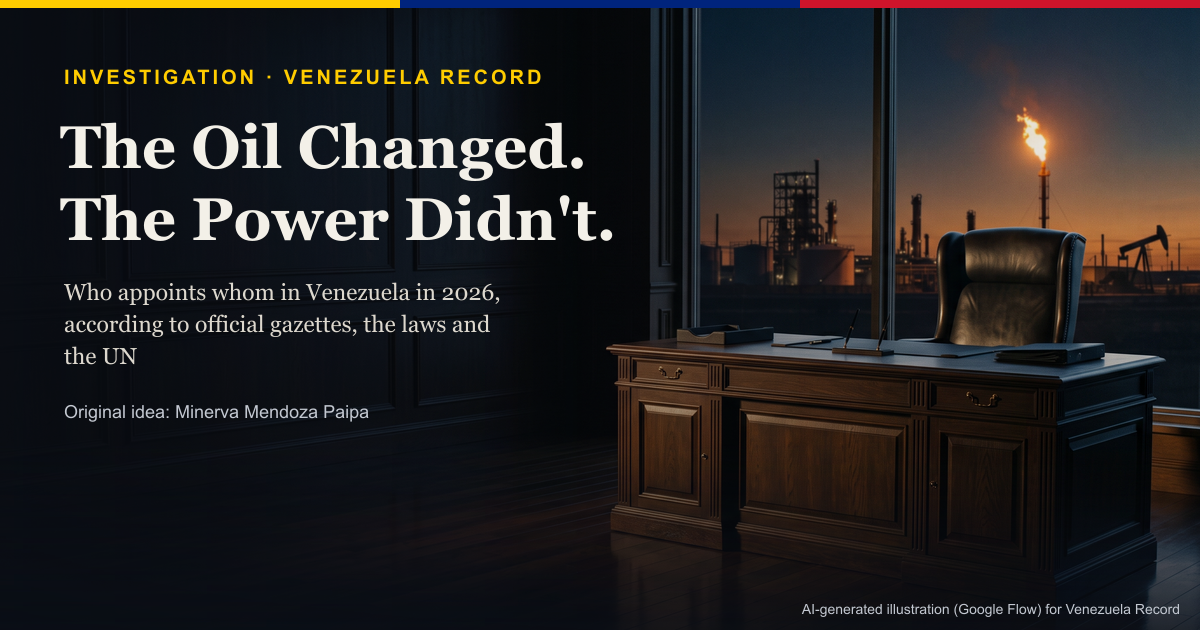
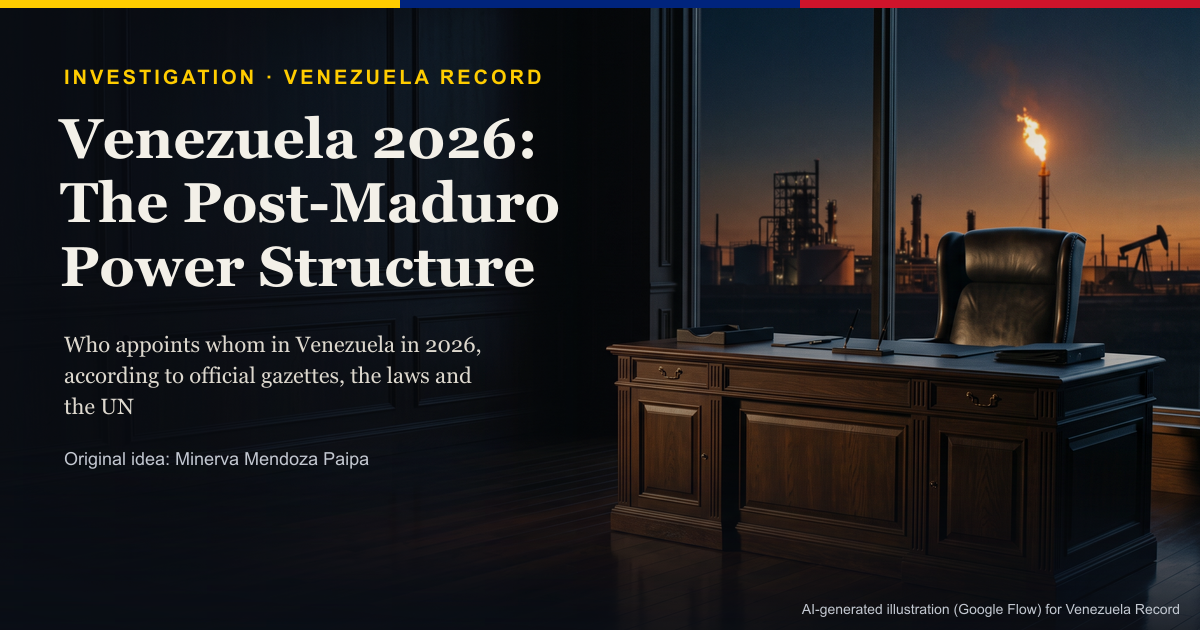
Investigation 1: new title and standfirst proposed by Minerva Mendoza Paipa ("Venezuela 2026: La estructura del poder post-Maduro"); social images regenerated

Changed region(s): [[0.0308, 0.181, 0.5242, 0.6635], [0.0617, 0.7238, 0.3083, 0.754]]

diff --git a/src/data/investigations/who-commands-venezuela-2026.ts b/src/data/investigations/who-commands-venezuela-2026.ts
@@ -1,4 +1,4 @@
-// "The Oil Changed. The Power Didn't." — data and texts shared by /investigations/who-commands-venezuela-2026/
+// "Venezuela 2026: The Post-Maduro Power Structure" (until 22 Oct 2026: "The Oil Changed. The Power Didn't.") — data and texts shared by /investigations/who-commands-venezuela-2026/
 // (English) and /es/investigations/who-commands-venezuela-2026/ (Spanish).
 // Facts are attributed; every org-chart line and timeline entry cites a numbered source (SOURCES below).
 // Author: Venezuela Record. Original idea: Minerva Mendoza Paipa.
@@ -34,7 +34,8 @@ import hero from '../../assets/investigations/who-commands-venezuela-2026/hero.j
 
 export const META: InvestigationMeta = {
   slug: 'who-commands-venezuela-2026',
-  title: { en: "The Oil Changed. The Power Didn't.", es: 'Cambió el petróleo, no el poder' },
+  // Title proposed by Minerva Mendoza Paipa, approved by Roger on 2026-10-22 (was "Cambió el petróleo, no el poder").
+  title: { en: 'Venezuela 2026: The Post-Maduro Power Structure', es: 'Venezuela 2026: La estructura del poder post-Maduro' },
   subtitle: {
     en: 'Who appoints whom in Venezuela in 2026, according to official gazettes, the laws and the UN',
     es: 'Quién designa a quién en la Venezuela de 2026, según las gacetas oficiales, las leyes y la ONU',
@@ -42,6 +43,11 @@ export const META: InvestigationMeta = {
   summary: {
     en: 'Since January, Venezuela opened its oil, welcomed back the IMF and signed an oil deal with the United States. The people who signed the laws used against dissent still appoint the heads of intelligence and counterintelligence. The gazettes show it.',
     es: 'Desde enero, Venezuela abrió su petróleo, recibió de nuevo al FMI y firmó un acuerdo petrolero con EE. UU. Las mismas personas que firmaron las leyes usadas contra quien disiente siguen nombrando a los jefes de la inteligencia y la contrainteligencia. Las gacetas lo muestran.',
+  },
+  /** Standfirst under the cover (Minerva Mendoza Paipa, 2026-10-22). */
+  intro: {
+    en: 'The reorganization of power in Venezuela during 2026 raises a question that goes beyond the change of authorities: which security and intelligence structures remain, who holds their command powers and which mechanisms of control and political persecution are still operating. What really changed in Venezuela? The official gazettes and the reports of international bodies show the institutional reality as of October 2026.',
+    es: 'La reorganización del poder en Venezuela durante 2026 plantea una cuestión que trasciende el cambio de autoridades: qué estructuras de seguridad e inteligencia permanecen, quién ejerce sus facultades de mando y qué mecanismos de control y persecución política continúan operando. ¿Qué fue lo que realmente cambió en Venezuela? Las gacetas oficiales y los informes de organismos internacionales permiten mostrar la realidad institucional a octubre de 2026.',
   },
   published: '2026-10-16',
   updated: '2026-10-22',

diff --git a/src/data/investigations/types.ts b/src/data/investigations/types.ts
@@ -25,6 +25,8 @@ export interface InvestigationMeta {
   updated: string;
   /** Who proposed the idea (credited, never as author) */
   ideaBy: string;
+  /** Optional standfirst shown right under the cover. */
+  intro?: L;
   cover?: ImageMetadata;
   /** Credit for a cover that uses third-party material (license requires it next to the image). */
   coverCredit?: { text: L; url?: string };

diff --git a/CLAUDE.md b/CLAUDE.md
@@ -32,8 +32,9 @@ Repo: `github.com/venezurecord/venezuelarecord`.
 - **2026-10-09 — Portada** (Roger): la noticia principal del inicio **siempre lleva foto** (nunca tarjeta de fuente):
   es la más reciente con imagen ([src/views/HomePage.astro](src/views/HomePage.astro)).
 - **2026-10-13 — Investigaciones (Roger):** piezas originales en /investigations/, crédito de idea a la persona que la
-  propuso, autor = Venezuela Record, sin nombres del equipo. Primera pieza: "Cambió el petróleo, no el poder" /
-  "The Oil Changed. The Power Didn't." (idea original: Minerva Mendoza Paipa). No lleva bloque de republicación ni `sourceTier`.
+  propuso, autor = Venezuela Record, sin nombres del equipo. Primera pieza: "Venezuela 2026: La estructura del poder post-Maduro" /
+  "Venezuela 2026: The Post-Maduro Power Structure" (idea original: Minerva Mendoza Paipa; título y entradilla propuestos
+  por ella y aprobados por Roger el 2026-10-22; antes se llamaba "Cambió el petróleo, no el poder"). No lleva bloque de republicación ni `sourceTier`.
 - **2026-10-16 — Agente semanal (Roger):** todos los viernes a las 9:00 a. m. (hora del Pacífico) una tarea programada de
   la app de Claude (`venezuelarecord-noticias-semanales`, guardada en la carpeta `scheduled-tasks` del perfil de Claude)
   busca las noticias de la semana (nivel A: todas las de VP y VenAmérica que cumplan el alcance; nivel B: 3–6 hechos
